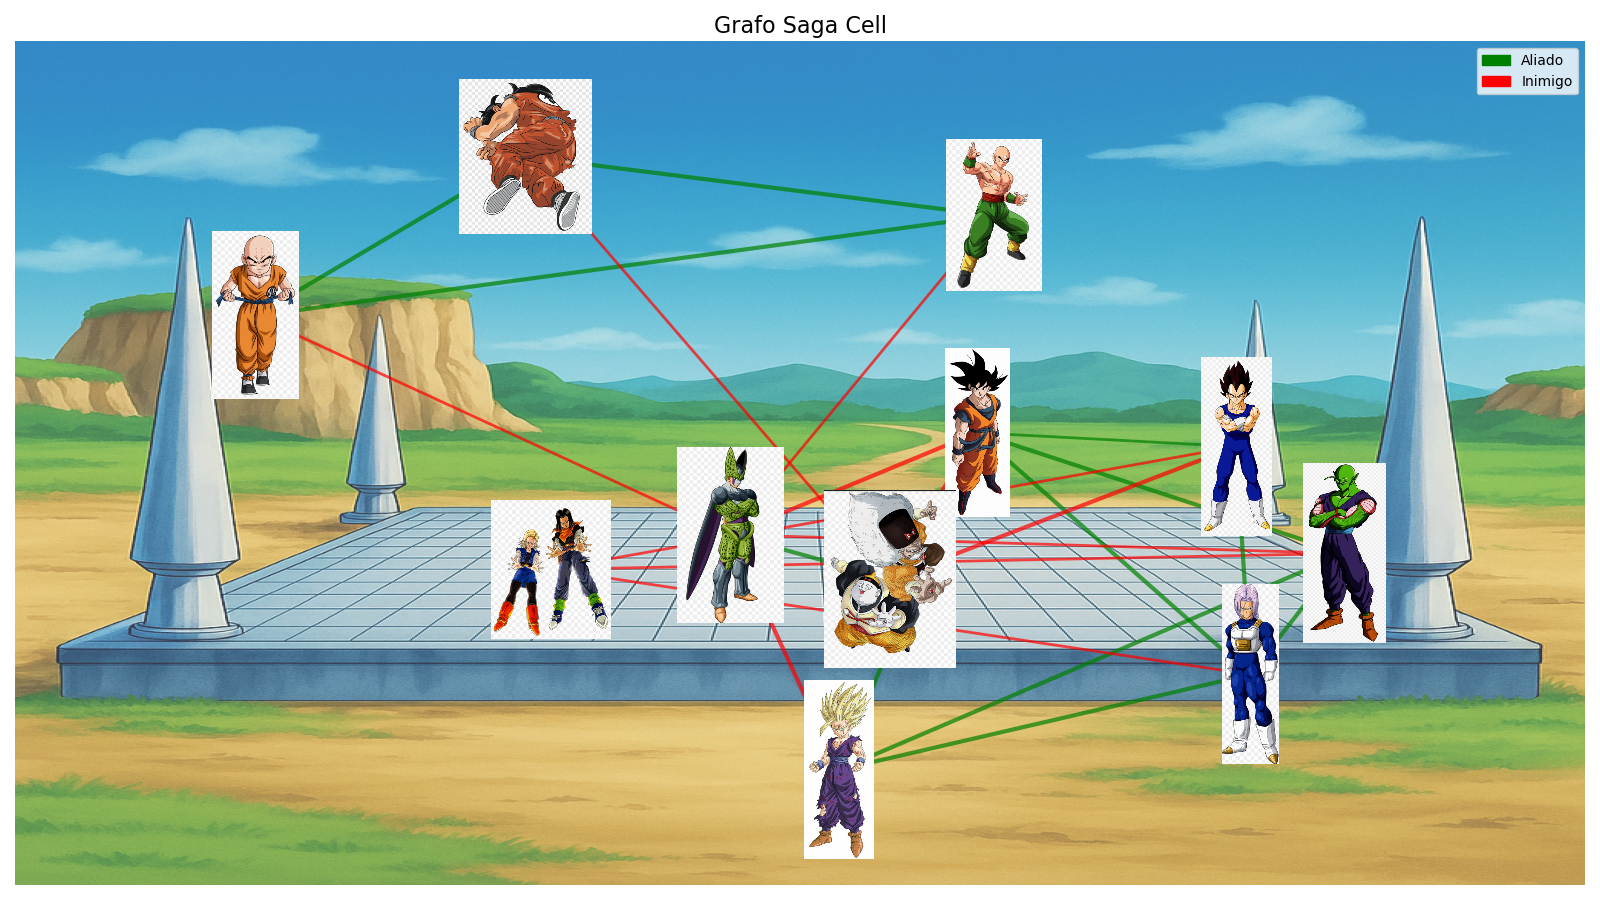
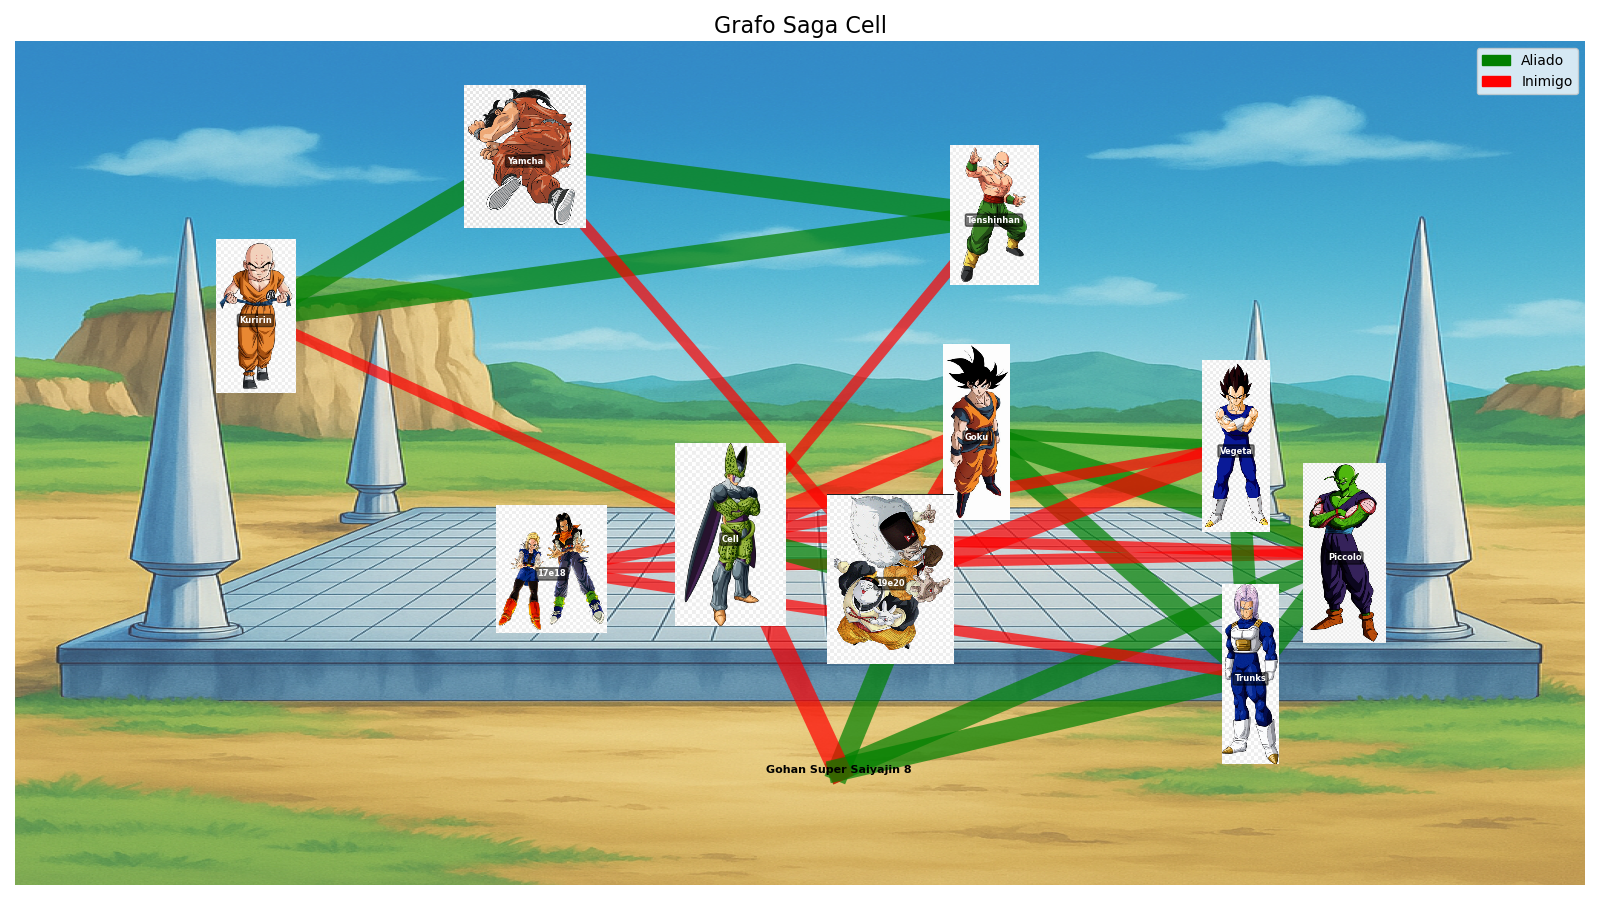
corrigindo bug de saga saiyajin

diff --git a/src/utils.py b/src/utils.py
@@ -1,5 +1,3 @@
-# src/utils.py
-
 import csv
 import os
 import networkx as nx
@@ -74,16 +72,15 @@ def imprimir_metricas(G, nome_grafo):
     else:
         print("Grafo desconexo, não tem diâmetro definido")
 
-def desenhar_grafo_com_imagens(G, pos, imagens, titulo="", nome_arquivo="grafo.png", saga=None):
+def desenhar_grafo_com_imagens(G, pos, imagens, titulo="", nome_arquivo="grafo.png", saga=None, boss_final_node=None):
     fig, ax = plt.subplots(figsize=FIGSIZE)
 
-    # Fundo por saga
     if saga:
         saga_normalizada = saga.strip().lower()
         mapa_arquivo = None
 
         if "saiyajin" in saga_normalizada:
-            mapa_arquivo = "mapaSagaSaiyajin.png"
+            mapa_arquivo = "mapaSagaSayajin.png"
         elif "freeza" in saga_normalizada:
             mapa_arquivo = "mapaNamekZ.png"
         elif "cell" in saga_normalizada:
@@ -114,13 +111,27 @@ def desenhar_grafo_com_imagens(G, pos, imagens, titulo="", nome_arquivo="grafo.p
             alpha=0.7
         )
 
-    # Nós
+    graus = dict(G.degree())
+
     for node in G.nodes():
+        zoom = 0.20 + (graus.get(node, 1) * 0.01)  # Zoom dinâmico baseado no grau
+
         if node in imagens:
-            ab = AnnotationBbox(imagens[node], pos[node], frameon=False)
-            ax.add_artist(ab)
+            img_obj = carregar_imagem(imagens[node], zoom=zoom)
+            if img_obj:
+                ab = AnnotationBbox(img_obj, pos[node], frameon=False)
+                ax.add_artist(ab)
+
+                # Borda vermelha só para o boss final
+                if boss_final_node and node == boss_final_node:
+                    from matplotlib.patches import Circle
+                    circle = Circle(pos[node], radius=0.15, edgecolor='red', facecolor='none', linewidth=2)
+                    ax.add_patch(circle)
+
+                ax.text(*pos[node], node, fontsize=6, ha='center', va='top', color='white', weight='bold',
+                        bbox=dict(facecolor='black', alpha=0.5, boxstyle='round,pad=0.2'))
         else:
-            ax.text(*pos[node], node, fontsize=8, ha='center')
+            ax.text(*pos[node], node, fontsize=8, ha='center', va='center', weight='bold')
 
     import matplotlib.patches as mpatches
     aliado_patch = mpatches.Patch(color='green', label='Aliado')
@@ -132,6 +143,8 @@ def desenhar_grafo_com_imagens(G, pos, imagens, titulo="", nome_arquivo="grafo.p
     plt.tight_layout()
     plt.savefig(os.path.join("outputs", nome_arquivo))
     plt.show()
+
+
 
 def dijkstra_aliados(G, origem):
     G_aliados = nx.Graph()

diff --git a/src/grafo.py b/src/grafo.py
@@ -1,4 +1,8 @@
-from utils import carregar_imagens_personagens, carregar_relacoes, carregar_imagem, construir_grafo_por_saga, imprimir_metricas, desenhar_grafo_com_imagens, bfs, dfs, dijkstra_aliados
+from utils import (
+    carregar_imagens_personagens, carregar_relacoes,
+    construir_grafo_por_saga, imprimir_metricas, desenhar_grafo_com_imagens,
+    bfs, dfs, dijkstra_aliados
+)
 import os
 import networkx as nx
 
@@ -21,7 +25,7 @@ def main():
         "majin buu": "Majin Buu"
     }
 
-    ordem_cronologica_sagas = ["saiyajins", "freeza", "cell", "majin buu"]
+    ordem_cronologica_sagas = ["saiyajin", "freeza", "cell", "majin buu"]
     sagas_presentes = set(r['saga'].lower() for r in relacoes)
 
     for saga in ordem_cronologica_sagas:
@@ -29,14 +33,19 @@ def main():
             continue
 
         G_saga = construir_grafo_por_saga(relacoes, saga)
-        imprimir_metricas(G_saga, f"Grafo Saga {saga}")
-        if "Goku" in G_saga.nodes():
-            print(f"\nBFS a partir de Goku na saga {saga}:")
-            print(bfs(G_saga, "Goku"))
+        imprimir_metricas(G_saga, f"Grafo Saga {saga.capitalize()}")
 
-            print(f"\nDFS a partir de Goku na saga {saga}:")
-            print(dfs(G_saga, "Goku"))
-        
+        origem_busca = "Goku"
+        if origem_busca in G_saga.nodes():
+            print(f"\nBFS a partir de {origem_busca} na saga {saga}:")
+            bfs(G_saga, origem_busca)
+
+            print(f"\nDFS a partir de {origem_busca} na saga {saga}:")
+            dfs(G_saga, origem_busca)
+
+            print(f"\nDijkstra (alianças) a partir de {origem_busca} na saga {saga}:")
+            dijkstra_aliados(G_saga, origem_busca)
+
         chefe = None
         for chave in chefes_finais.keys():
             if chave in saga:
@@ -52,18 +61,18 @@ def main():
         imagens_saga = {}
         for node in G_saga.nodes():
             caminho_img = imagens_path.get(node)
-            if caminho_img:
-                img = carregar_imagem(caminho_img)
-                if img:
-                    imagens_saga[node] = img
+            if caminho_img and os.path.exists(caminho_img):
+                imagens_saga[node] = caminho_img
 
         nome_arquivo = f"grafo_saga_{saga.replace(' ', '_')}.png"
         desenhar_grafo_com_imagens(
             G_saga, pos_saga, imagens_saga,
             f"Grafo Saga {saga.capitalize()}",
             nome_arquivo,
-            saga=saga
+            saga=saga,
+            boss_final_node=chefe  
         )
+
 
 if __name__ == "__main__":
     main()
